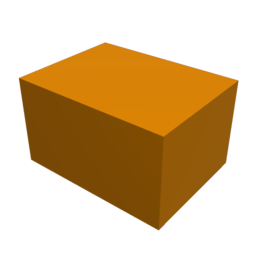
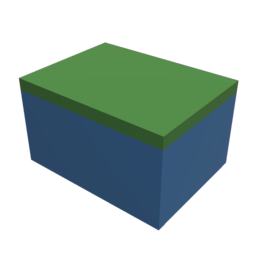
Part lists: part colors from the model definition
A part of a part list (the part parameter) with a color in <model>.yml
has that color in the 3D view, also with Part colors off. Before, the
color was only for multicolor models.

- part_param::render keeps the color of each value (Built::colors), and
  csg_split::Split carries it to the assembly (Split::colors). All
  solids of a value get its color. Values without a color and "Other"
  parts get none.
- parts::shown_color gives the defined color when the part parameter
  shows one part of a part list.
- Example part-selector: colors for the box, the lid and the feet. New
  thumbnail.
- Wiki: Model definition, Parts, How CoCAD finds the parts and Write
  models for CoCAD. The schema text of color names the 3D view.

diff --git a/src/assembly.rs b/src/assembly.rs
@@ -234,7 +234,8 @@ impl Assembly {
     /// - `Kind::Colors` (a multicolor part list): each part is one part with
     ///   its name and color.
     /// - `Kind::Labeled` (the `part` selector): each shell of each part is
-    ///   one part without a color, named after its part.
+    ///   one part, named after its part. It has the color of its part from
+    ///   the definition (`Split::colors`), else no color.
     /// - `Kind::Modules` (the module split, `csg_split.rs`): each shell of
     ///   each part is one part "Part N" without a color. With no parts (no
     ///   module split), the shells of `main` are the parts.
@@ -253,7 +254,7 @@ impl Assembly {
     /// its name.
     #[cfg(test)]
     pub fn from_parts(main: &Mesh, parts: &[Part], kind: &Kind, references: &[Part]) -> Assembly {
-        Assembly::assemble(main, parts, parts, kind, references)
+        Assembly::assemble(main, parts, parts, &[], kind, references)
     }
 
     /// The parts of a `csg_split::Split`, as `from_parts`. For the "Other"
@@ -264,14 +265,23 @@ impl Assembly {
         } else {
             &split.cover
         };
-        Assembly::assemble(main, &split.parts, cover, &split.kind, &split.references)
+        Assembly::assemble(
+            main,
+            &split.parts,
+            cover,
+            &split.colors,
+            &split.kind,
+            &split.references,
+        )
     }
 
-    /// `from_parts` with `cover`: the parts that the "Other" test uses.
+    /// `from_parts` with `cover`, the parts that the "Other" test uses, and
+    /// `colors`, the colors of the `Labeled` parts.
     fn assemble(
         main: &Mesh,
         parts: &[Part],
         cover: &[Part],
+        colors: &[Option<[u8; 3]>],
         kind: &Kind,
         references: &[Part],
     ) -> Assembly {
@@ -303,10 +313,14 @@ impl Assembly {
                 shells: Shells::Numbered,
                 reference: false,
             }],
-            _ => (parts.iter())
-                .map(|p| Source {
+            _ => (parts.iter().enumerate())
+                .map(|(k, p)| Source {
                     name: p.name.clone(),
-                    color: (*kind == Kind::Colors).then_some(p.color),
+                    color: match kind {
+                        Kind::Colors => Some(p.color),
+                        Kind::Labeled => colors.get(k).copied().flatten(),
+                        _ => None,
+                    },
                     mesh: &p.mesh,
                     shells: match kind {
                         Kind::Colors => Shells::Whole,
@@ -933,6 +947,21 @@ mod tests {
         assert_eq!(names, ["Spine", "Pin 1", "Pin 2", "Other"]);
         assert!((a.parts[1].volume - 64.0).abs() < 1e-3);
         assert!(a.parts.iter().all(|p| p.color.is_none()));
+
+        // With colors from the definition: each solid takes the color of its
+        // part. A part without a color and the "Other" part get none.
+        let split = crate::csg_split::Split {
+            parts: vec![
+                part("Spine", [0xff; 3], &spine),
+                part("Pin", [0xff; 3], &pins),
+            ],
+            kind: Kind::Labeled,
+            colors: vec![None, Some([1, 2, 3])],
+            ..Default::default()
+        };
+        let a = Assembly::from_split(&Mesh::from_soup(&main), &split);
+        let colors: Vec<_> = a.parts.iter().map(|p| p.color).collect();
+        assert_eq!(colors, [None, Some([1, 2, 3]), Some([1, 2, 3]), None]);
     }
 
     #[test]

diff --git a/src/part_param.rs b/src/part_param.rs
@@ -167,10 +167,22 @@ pub fn shown_label(params: &[Param]) -> Option<String> {
     Some(c.label)
 }
 
+/// The color from the definition of the one value that the model shows.
+/// `None` when it shows all parts, has no selector, or the value has no
+/// color.
+pub fn shown_color(params: &[Param]) -> Option<[u8; 3]> {
+    let value = selected(params).filter(|s| s != ALL)?;
+    choices(params).into_iter().find(|c| c.value == value)?.color
+}
+
 /// The parts of all values.
 pub struct Built {
-    /// The parts, each one with the label of its value as its name.
+    /// The parts, each one with the label of its value as its name, and
+    /// the color of its value, else white.
     pub parts: Vec<Part>,
+    /// The color of each part in `parts` from the definition. `None`: the
+    /// value has no color.
+    pub colors: Vec<Option<[u8; 3]>>,
     /// The exact build of each value, for the "Other" test. A part that
     /// comes from the module split of a value builds from the CSG tree,
     /// which has rounded numbers.
@@ -192,7 +204,8 @@ struct Run {
 /// So CoCAD also applies the module split to the CSG tree of each value.
 /// When the pieces give more solids than the build of the value, the
 /// pieces are the parts, else the build is. Each part has the label as its
-/// name. A value without 3D geometry gives no part. An error of one value
+/// name and the color of its value. A value without 3D geometry gives no
+/// part. An error of one value
 /// fails the job, and so does a list where no value gives geometry.
 pub fn render(
     cfg: &Config,
@@ -252,16 +265,17 @@ pub fn render(
     let mut meshes = crate::csg_split::build_texts(cfg, &texts, cancel)?.into_iter();
     let mut out = Built {
         parts: Vec::new(),
+        colors: Vec::new(),
         cover: Vec::new(),
     };
-    for r in runs {
+    for (r, c) in runs.into_iter().zip(choices) {
         let pieces: Vec<_> = meshes.by_ref().take(r.pieces.len()).flatten().collect();
         let Some(mesh) = r.mesh else {
             continue;
         };
         let part = |mesh| Part {
             name: r.label.clone(),
-            color: [0xff; 3],
+            color: c.color.unwrap_or([0xff; 3]),
             mesh,
         };
         let solids: usize = pieces
@@ -275,6 +289,7 @@ pub fn render(
             out.cover.push(part(mesh.clone()));
             out.parts.push(part(mesh));
         }
+        out.colors.resize(out.parts.len(), c.color);
     }
     if out.parts.is_empty() {
         bail!("no value of the {name} list gives 3D geometry");

diff --git a/src/parts.rs b/src/parts.rs
@@ -69,11 +69,16 @@ pub fn needs_render(params: &[Param]) -> bool {
     selected(params).is_some_and(|s| s == part_param::ALL)
 }
 
-/// The color of the one part that the model shows, from the log of the
-/// main render. `None` when the model shows all parts or has no parts.
+/// The color of the one part that the model shows. For a multicolor part,
+/// it can come from the log of the main render (see `color`). For a part of
+/// a part list, it is the color of the definition. `None` when the model
+/// shows all parts, has no parts, or shows a part of a part list without a
+/// color.
 pub fn shown_color(params: &[Param], log: &str) -> Option<[u8; 3]> {
+    let Some((_, l)) = list(params) else {
+        return part_param::shown_color(params);
+    };
     let value = selected(params).filter(|s| s != part_param::ALL)?;
-    let (_, l) = list(params)?;
     let i = l.choices.iter().position(|c| c.value == value)?;
     Some(color(l.choices[i].color, log, i))
 }
@@ -272,5 +277,27 @@ mod tests {
         let all = params::parse("cocad_part = \"all\"; // [all, plate, star]\n");
         assert_eq!(shown_color(&all, ""), None);
         assert!(needs_render(&all));
+    }
+
+    #[test]
+    fn one_selected_part_of_a_part_list_takes_its_defined_color() {
+        let def = crate::definition::parse(
+            "cocad: 1\nparts:\n  - {id: box, color: red}\n  - lid\n",
+            false,
+        )
+        .unwrap();
+        let with = |value: &str| {
+            let mut p = params::parse(&format!("part = \"{value}\"; // [all, box, lid]\n"));
+            assert!(def.apply_parts(&mut p).is_empty());
+            p
+        };
+        // The log has no effect on a part list.
+        assert_eq!(
+            shown_color(&with("box"), "ECHO: cocad_color = \"blue\""),
+            Some([0xff, 0, 0])
+        );
+        assert_eq!(shown_color(&with("lid"), ""), None);
+        assert_eq!(shown_color(&with("all"), ""), None);
+        assert!(!needs_render(&with("all")));
     }
 }

diff --git a/src/csg_split.rs b/src/csg_split.rs
@@ -710,6 +710,9 @@ pub struct Split {
     pub references: Vec<Part>,
     /// How `parts` become the parts of the assembly.
     pub kind: Kind,
+    /// The color of each part of `parts` from the model definition, for a
+    /// part list (`Kind::Labeled`). Empty, or `None` for a part: no color.
+    pub colors: Vec<Option<[u8; 3]>>,
     /// Exact builds that hold the same shapes as `parts`, for the test
     /// that finds the "Other" parts. Empty: `parts` are exact.
     pub cover: Vec<Part>,
@@ -899,8 +902,7 @@ pub fn find_parts(
             parts,
             references,
             kind: Kind::Colors,
-            cover: Vec::new(),
-            notes: Vec::new(),
+            ..Split::default()
         }));
     }
     if !parts::names(params).is_empty() {
@@ -915,6 +917,7 @@ pub fn find_parts(
                     parts: built.parts,
                     references,
                     kind: Kind::Labeled,
+                    colors: built.colors,
                     cover: built.cover,
                     notes: Vec::new(),
                 }));
@@ -956,8 +959,8 @@ pub fn find_parts(
             parts,
             references,
             kind: Kind::Shown(label),
-            cover: Vec::new(),
             notes,
+            ..Split::default()
         }));
     }
     render(cfg, file, defines, cancel)

diff --git a/src/definition.rs b/src/definition.rs
@@ -89,7 +89,8 @@ pub struct PartDef {
     pub id: String,
     /// The name that CoCAD shows. `None`: the id.
     pub name: Option<String>,
-    /// A `#RRGGBB` value or a color name, for a multicolor print.
+    /// A `#RRGGBB` value or a color name: the color of the part in the 3D
+    /// view, and the filament color of a multicolor print.
     pub color: Option<String>,
 }
 

diff --git a/docs/wiki/Model-definition.md b/docs/wiki/Model-definition.md
@@ -24,10 +24,13 @@ url: https://example.com/part-selector
 parts:
   - id: box
     name: Box
+    color: "#4e8fd6"
   - id: lid
     name: Lid
+    color: "#59a14f"
   - id: feet
     name: Foot
+    color: "#e15759"
 
 sets:
   Small box:
@@ -74,13 +77,14 @@ The `parts` list of the definition gives each other value a name:
 parts:
   - id: box        # the value of the part parameter
     name: Box      # the name that CoCAD shows
+    color: "#4e8fd6"  # quotes: without them, # starts a comment
   - id: lid
     name: Lid
   - feet           # only the id: the name is "feet"
 ```
 
 - The order of the list is the order in the dropdown list of the parameter. For a multicolor model, it also sets the filament number.
-- `color` sets the color of a part in a multicolor model: `#RRGGBB` or a color name (white, black, red, green, blue, yellow, orange, purple, pink, brown, cyan, magenta, gold, silver, gray).
+- `color` sets the color of a part: `#RRGGBB` or a color name (white, black, red, green, blue, yellow, orange, purple, pink, brown, cyan, magenta, gold, silver, gray). The 3D view, the thumbnail and the photo with **Part colors** on show the part in this color. **Colors…** in the **Parts** card can change it. In a multicolor model, it is also the color of the filament.
 - The parameter must be a string parameter in the `.scad` file, not in the `Hidden` group. A dropdown list in the `.scad` file is optional. With the list, the part selection also works in the OpenSCAD Customizer. The names of the definition replace the labels of the list.
 - For the rules of the parts, see [Write models for CoCAD](Write-models-for-CoCAD#names-for-the-parts).
 

diff --git a/docs/wiki/Write-models-for-CoCAD.md b/docs/wiki/Write-models-for-CoCAD.md
@@ -126,6 +126,7 @@ Rules:
 - Each other value shows only that part, in its place of use. Do not turn the part to a print position. The [Optimize](Optimize) tab does that.
 - Do not show the `%` parts for the other values.
 - The `name` in the definition is the name of the part. Without `parts` in the definition, CoCAD uses the labels of the dropdown list (`// [all:All, box:Box]`), else the values.
+- `color` in the definition gives the part a color in the 3D view, for example `color: "#4e8fd6"`. See [Model definition](Model-definition#parts).
 - `part_parameter` in the definition sets another name for the parameter.
 - One value can give more than one solid, for example four feet. The parts then have the names "Foot 1", "Foot 2" and so on.
 - Parts of one value that touch, for example the segments of a board, stay separate when each one is a module call. A `for` loop of module calls also works:

diff --git a/docs/wiki/Parts.md b/docs/wiki/Parts.md
@@ -15,6 +15,7 @@ While CoCAD looks for the parts, the card shows "Finding the parts…" or "Build
 ## Part colors
 
 - Turn on **Part colors** to show each part in a different color.
+- A model can give its parts their colors in its [model definition](Model-definition#parts). The 3D view shows these parts in their colors, also with **Part colors** off. The other parts are orange. With **Part colors** on, they each get a different color.
 - Click **Colors…** to see the list of all parts with their volumes. Click a color to change it. **Reset** gives the part its default color again.
 - A color change turns on **Part colors**.
 - The colors stay when the model builds again. When you open a different model, CoCAD clears them.

diff --git a/docs/wiki/How-CoCAD-finds-the-parts.md b/docs/wiki/How-CoCAD-finds-the-parts.md
@@ -80,6 +80,7 @@ For all other models, or when the module split finds no parts, CoCAD uses the so
 ## Colors
 
 - A part of a multicolor list keeps its color.
+- A part of a part list with a `color` in the definition has that color. All solids of the value get it.
 - The other parts get colors from a palette of 12 colors when **Part colors** is on.
 
 ## Selection and focus
